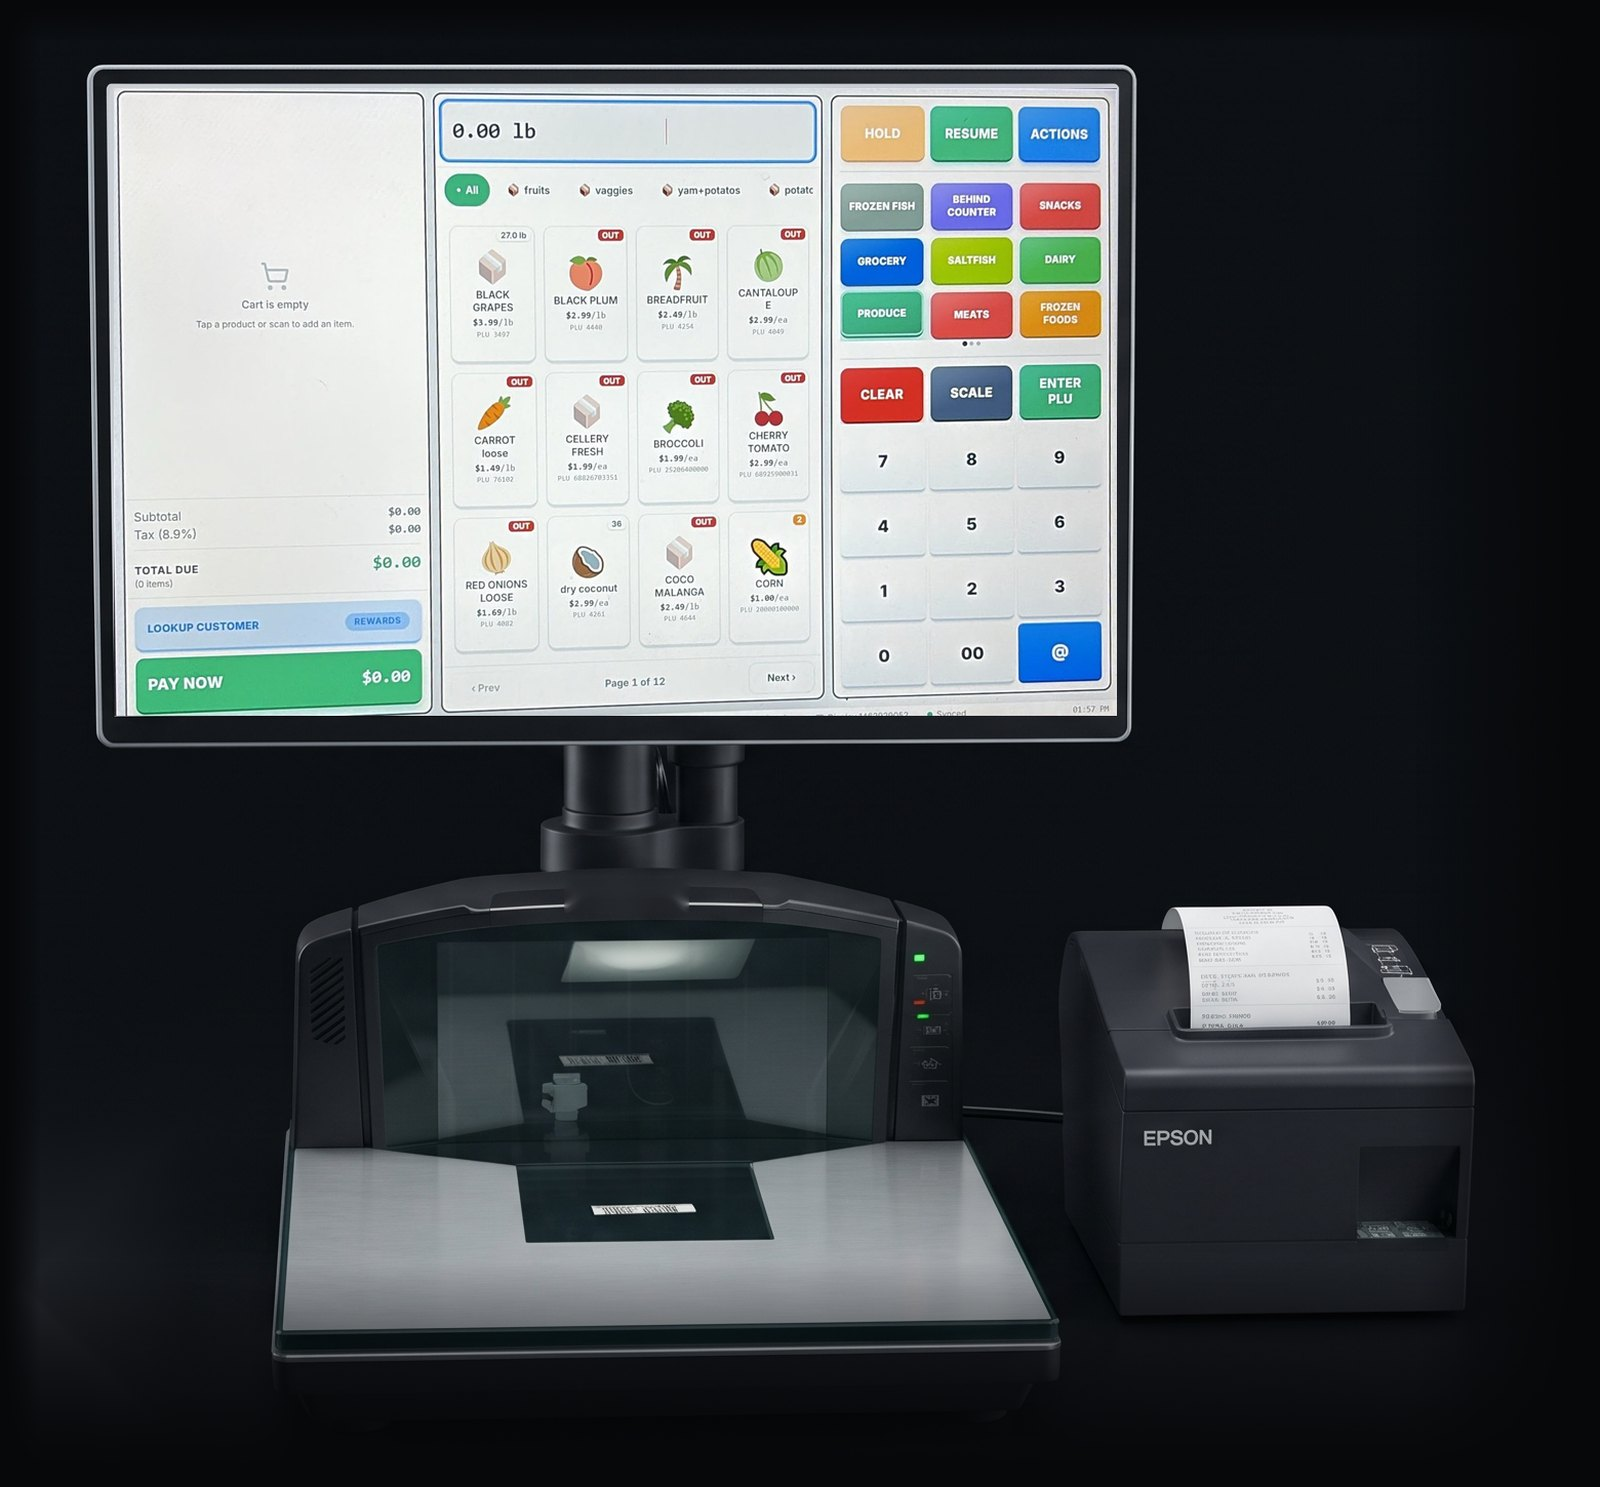
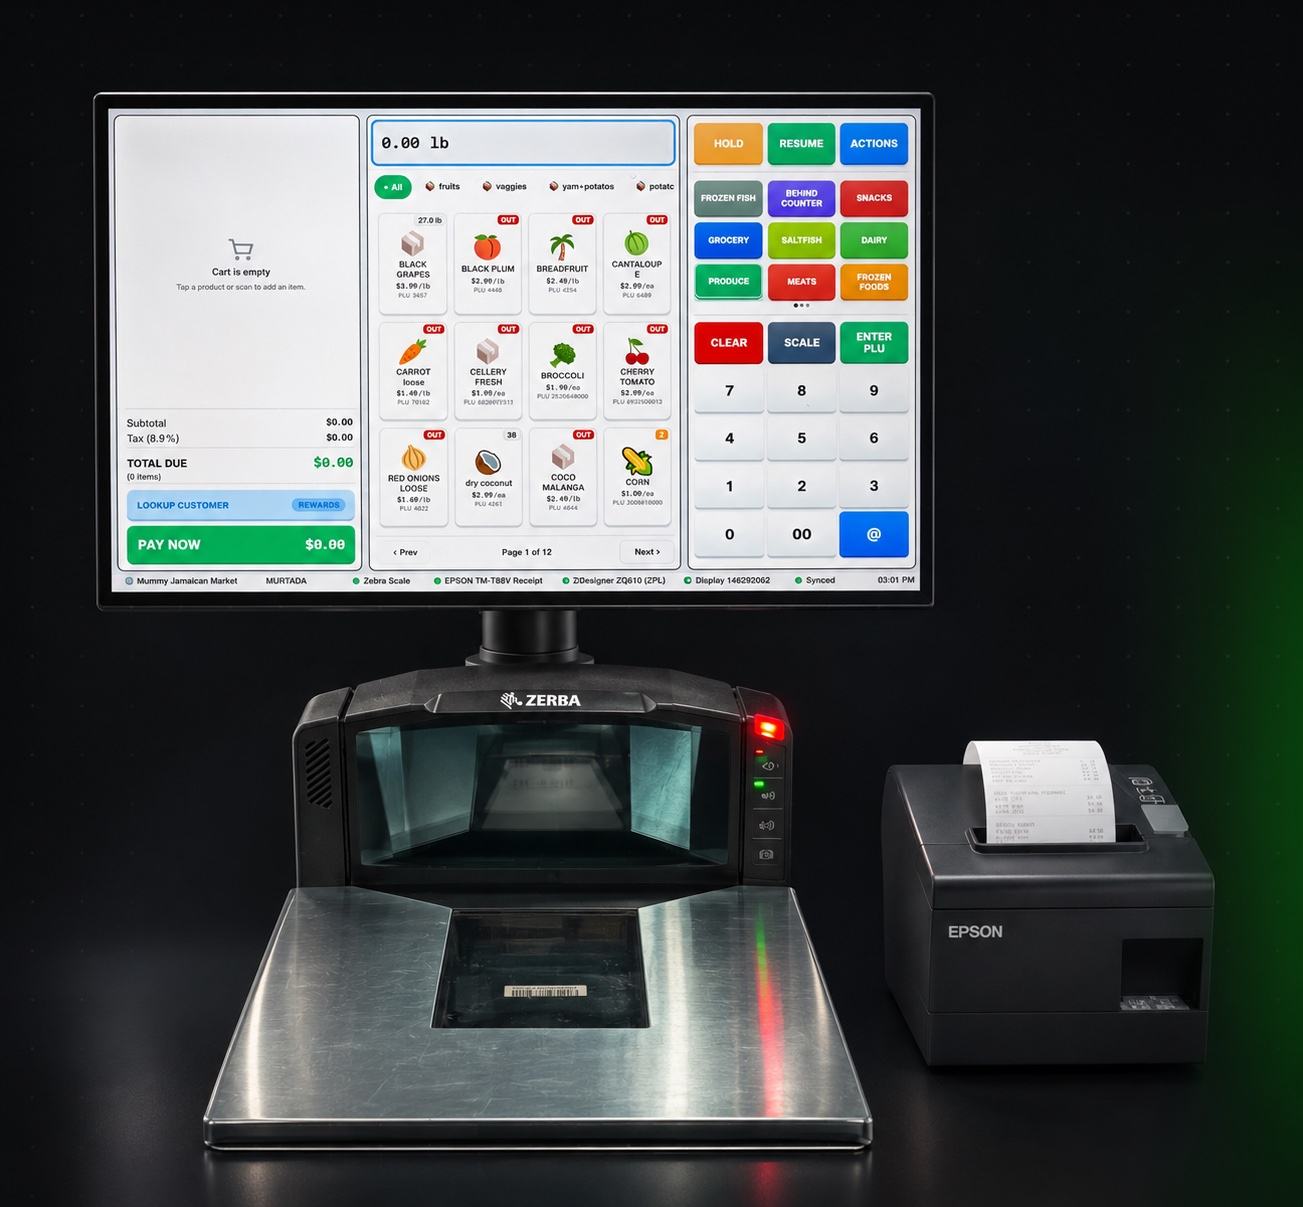
feat: new hero photo, remove hero motion overlay

diff --git a/src/components/site/motion.tsx b/src/components/site/motion.tsx
@@ -14,7 +14,6 @@ gsap.registerPlugin(ScrollTrigger);
 const LOOP = "3.2s";
 export const HeroMotion: React.FC = () => {
   const still = prefersReducedMotion();
-  const toScreen = "M640 884 L640 756";
   const toPrinter = "M964 1106 C1000 1106 1030 1110 1064 1110";
   return (
     <svg viewBox="0 0 1600 1487" className="absolute inset-0 w-full h-full pointer-events-none" aria-hidden>
@@ -39,7 +38,6 @@ export const HeroMotion: React.FC = () => {
       </defs>
 
       {/* faint tracks so the paths read even between packets */}
-      <path d={toScreen} fill="none" stroke="#31e327" strokeOpacity="0.22" strokeWidth="2" strokeDasharray="2 8" strokeLinecap="round" />
       <path d={toPrinter} fill="none" stroke="#31e327" strokeOpacity="0.22" strokeWidth="2" strokeDasharray="2 8" strokeLinecap="round" />
       <circle cx="919" cy="958" r="5" fill="#31e327" opacity="0.7" filter="url(#mg-glow)">
         {!still && <animate attributeName="opacity" values="0.55;0.55;1;0.55" keyTimes="0;0.46;0.5;1" dur={LOOP} repeatCount="indefinite" />}
@@ -70,7 +68,6 @@ export const HeroMotion: React.FC = () => {
 
           {/* data packets */}
           {[
-            { d: toScreen, kt: "0;0.5;0.66;1", ot: "0;0.499;0.5;0.66;0.67;1" },
             { d: toPrinter, kt: "0;0.62;0.8;1", ot: "0;0.619;0.62;0.8;0.81;1" },
           ].map((p) => (
             <g key={p.d} opacity="0" filter="url(#mg-glow)">

diff --git a/src/components/site/Hero.tsx b/src/components/site/Hero.tsx
@@ -4,7 +4,6 @@ import gsap from "gsap";
 import { MEDIA } from "../../media";
 import { DeviceFrame, PosScreen, ScaledScreen } from "./screens";
 import { prefersReducedMotion } from "./hooks";
-import { HeroMotion } from "./motion";
 
 interface HeroProps {
   onBookDemo: (context?: string) => void;
@@ -108,9 +107,9 @@ export const Hero: React.FC<HeroProps> = ({ onBookDemo }) => {
             <div className="relative">
             <img
               src={MEDIA.heroHardware}
-              alt="Produce Ai POS: touchscreen on an arm, scanner scale and receipt printer"
-              width={1600}
-              height={1487}
+              alt="Produce Ai POS: touchscreen, Zebra scanner scale and Epson receipt printer"
+              width={1303}
+              height={1207}
               fetchPriority="high"
               className="w-full h-auto"
               style={{
@@ -122,7 +121,6 @@ export const Hero: React.FC<HeroProps> = ({ onBookDemo }) => {
                 maskComposite: "intersect",
               }}
             />
-            <HeroMotion />
             </div>
           ) : (
             <div className="float-y">
